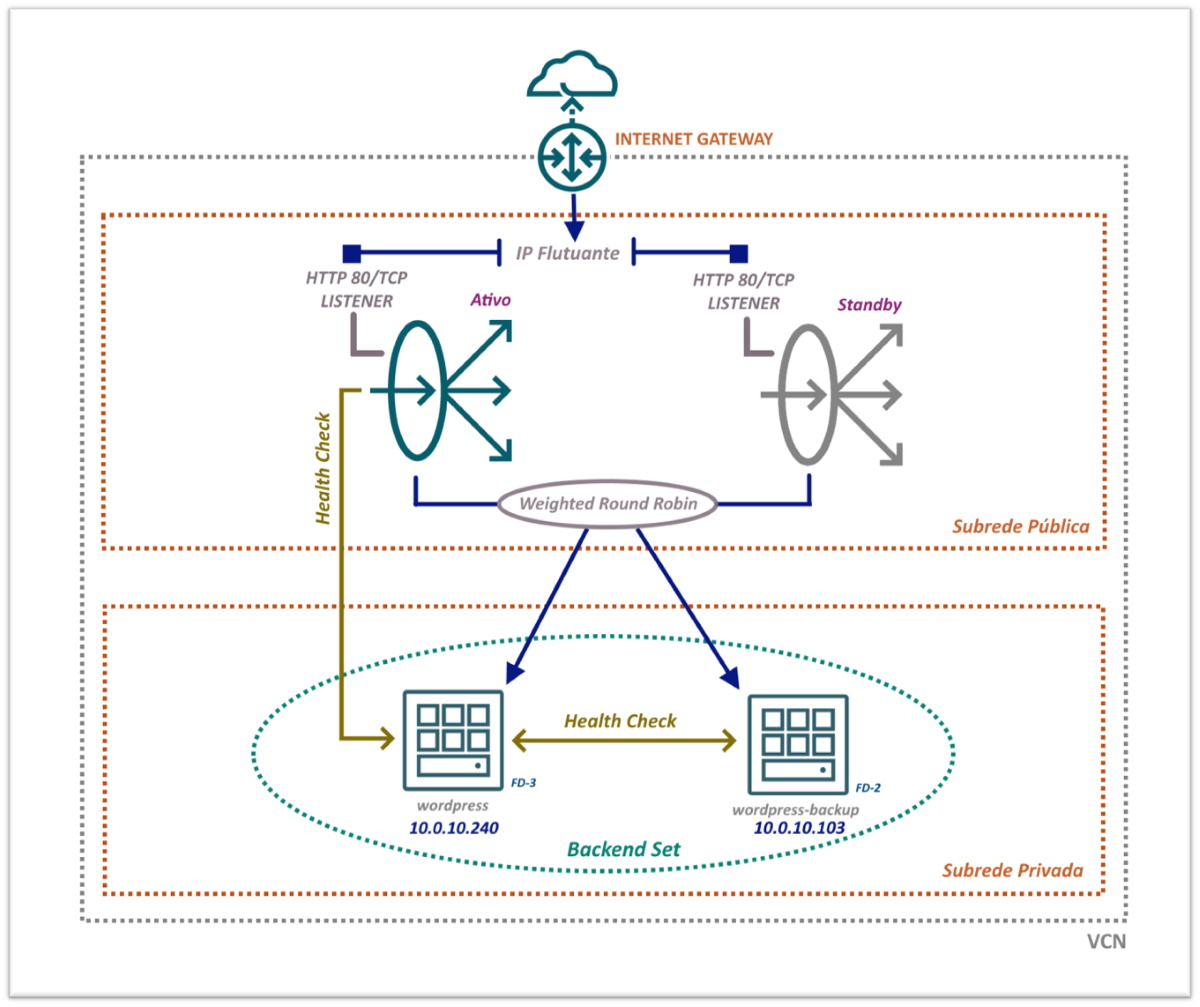
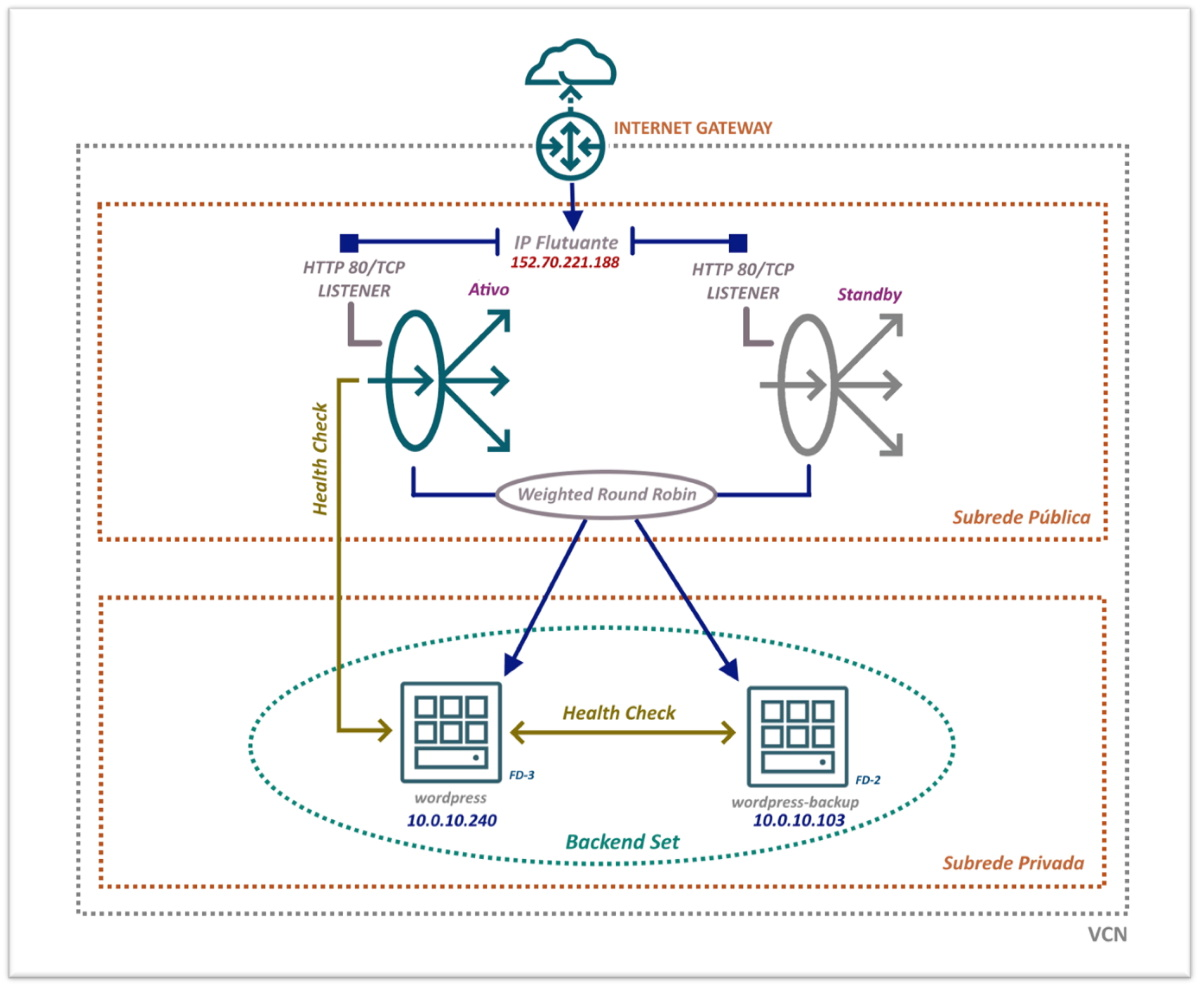
Writing about Load Balancer.

diff --git a/chapter-4/4-5_intro-load-balancing.md b/chapter-4/4-5_intro-load-balancing.md
@@ -135,4 +135,4 @@ Action completed. Waiting until the resource has entered state: ('AVAILABLE',)
 }
 ```
 
-Agora temos o _[endereço IP público](https://docs.oracle.com/pt-br/iaas/Content/Network/Tasks/managingpublicIPs.htm#Public_IP_Addresses)_ reservado _152.70.221.188_ exibido pelo valor da propriedade _"ip-address"_ do comando acima.
+Agora temos o _[endereço IP público](https://docs.oracle.com/pt-br/iaas/Content/Network/Tasks/managingpublicIPs.htm#Public_IP_Addresses)_ reservado _152.70.221.188_ exibido pelo valor da propriedade _"ip-address"_ do comando acima. Este é nosso!
